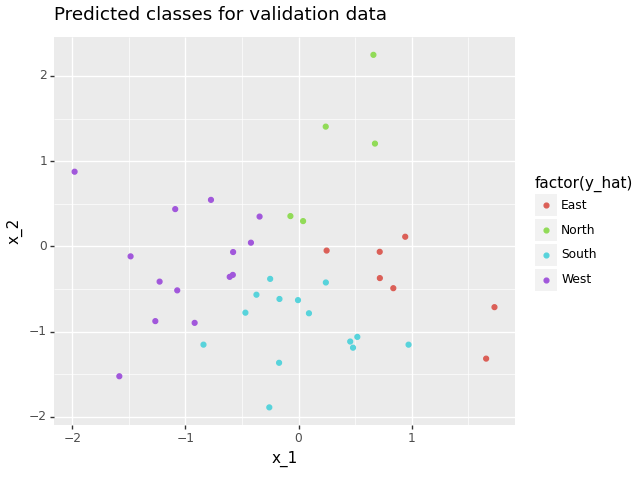
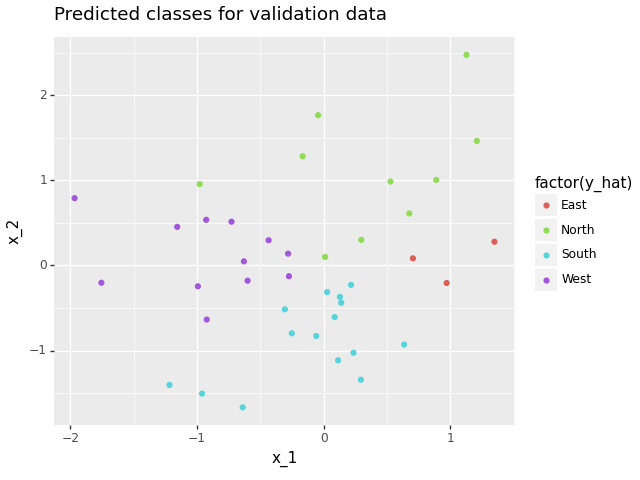
Updated the README.md

diff --git a/neural_network/components/network.py b/neural_network/components/network.py
@@ -21,9 +21,9 @@ class Network:
     """
 
     def __init__(self, num_features: int, num_hidden_layers: int,
-                 neuron_counts: List[int], regression: bool = False,
-                 leak: float = 0.01, learning_rate: float = 0.01,
-                 num_classes: int = 2, adaptive: bool = False,
+                 neuron_counts: List[int], num_classes: int = 2,
+                 regression: bool = False, leak: float = 0.01,
+                 learning_rate: float = 0.01, adaptive: bool = False,
                  gamma: float = 0.9, he_weights: bool = False):
         """Constructor method
 
@@ -35,6 +35,8 @@ class Network:
             The total number of hidden `Layers` in the `Network`
         neuron_counts : List[int]
             A list of numbers of `Neurons` for each hidden `Layer`
+        num_classes : int
+            The number of classes for the classification task
         regression : bool
             Whether we are performing regression or not (if `False` we are
             performing classification)
@@ -42,8 +44,6 @@ class Network:
             The leak rate of LeakyReLU
         learning_rate : float
             The learning rate of the network
-        num_classes : int
-            The number of classes for the classification task
         adaptive : bool
             Whether we wish to have an adaptive learning rate or not
         gamma : float

diff --git a/README.md b/README.md
@@ -12,7 +12,7 @@ Given a set of labelled datapoints, our goal is to use a neural network to learn
 ### Network
 This network is made up of an input layer (one neuron for each coordinate of the data), some hidden layers and an output layer.
 The output layer has either one neuron for regression problems, or the number of classes for classification. Below is an example network
-from `examples/classification/circle` produced using the `networkx` package.
+from `examples/classification/circle` produced using the `networkx` package, with 1 input layer, 3 hidden layers and 1 output layer.
 
 ![example network](images/network_circle.png)
 
@@ -44,8 +44,11 @@ There are a few different ways of creating an example. In this section, we demon
 
 Here, we use `examples/diagonals` as our example, which has data in the $x-y$ plane split into 4 classes for North, East, South and West.
 First, create a directory named `diagonals` in the `examples` folder (or in your own new folder if you prefer).
+
 ### Generating data
-To generate your own data, create the file `generate_diagonals_data.py`. From here, import one of the data generators, say
+Next, you can either use one of the helper classes to generate some data, or use your own. We demonstrate both ways below.
+
+To utilise the helper classes, first create the file `generate_diagonals_data.py`. From here, import one of the data generators, say
 `NormalDataGenerator`, which takes the following arguments:
 
 | argument         | type          | description                                                                                                                                                                   |
@@ -72,15 +75,113 @@ For our example, the `function` takes in `x_1` and `x_2` as arguments, and retur
                 return "West"
 ``
 
-Next, we feed this to the `NormalDataGenerator` with `400` datapoints and means of `[0.0, 0.0]`, std_devs of `[1.0, 1.0]` to get the following data:
+Next, we feed this to the `NormalDataGenerator` with `400` datapoints and means of `[0.0, 0.0]`, std_devs of `[1.0, 1.0]`. Use the `__call__` method of the generator,
+followed by `generator.plot_datapoints("diagonals")` to get the plot below:
 
-![true diagonals data](images/true_scatter.png)
+![true diagonals data](images/true_scatter_diagonals.png)
 
-This is from the dataframe returned by the `__call__` method of the data generator. We can then save this to a .csv file using `generator.write_to_csv("diagonals_data.csv")`.
+We can then save this data to a .csv file using `generator.write_to_csv("diagonals_data.csv")`.
 
-### Using 
+### Using externally generated data
+If you wish to instead use your own data not generated by one of the helper methods, simply put it in the following .csv format (titles unimportant):
 
-## Class Structure
+| `x_1` | ... | `x_n` | `y`       |
+|-------|-----|-------|-----------|
+| `0.1` | ... | `0.8` | `Class B` |
+| `0.4` | ... | `0.5` | `Class A` |
+| `0.6` | ... | `0.1` | `Class B` |
+| ...   | ... | ...   | ...       |
+
+In the above table, each row represents a single datapoint with `n` coordinates `x_1`, ..., `x_n`. `y` represents either the class or value of the datapoint.
+The `x_i` and `y` entries must be of the following types:
+
+| variable | problem                      | type                        |
+|----------|------------------------------|-----------------------------|
+| `x_i`    | classification or regression | `int` or `float`            |
+| `y`      | classification               | `int`, `float`, `str`, etc. |
+| `y`      | regression                   | `int` or `float`            |
+
+### Splitting data and constructing the network
+Once we have our data in a .csv file, we can begin learning. Within the `diagonals` directory, create a new file named `diagonals_main.py`.
+From here, import the `DataSplitter` which will randomly split our data into training, validation and testing according to some proportions.
+
+`` 
+
+    data_splitter = DataSplitter(path="diagonals_data.csv", proportions=[8, 1, 1]) 
+    training_data, validation_data, testing_data = data_splitter.split()
+
+``
+
+After this, we can instantiate our `network`, which accepts the following parameters to its constructor:
+
+| parameter           | type        | description                                                                                               | default  |
+|---------------------|-------------|-----------------------------------------------------------------------------------------------------------|----------|
+| `num_features`      | `int`       | The number of features (x coordinates) per datapoint.                                                     | ---      |
+| `num_hidden_layers` | `int`       | The number of hidden layers of the network.                                                               | ---      |
+| `neuron_counts`     | `List[int]` | The number of neurons in each hidden layer.                                                               | ---      |
+| `num_classes`       | `int`       | The number of classes in the data for a classification problem. This parameter is ignored for regression. | `2`      |
+| `regression`        | `bool`      | `True` corresponds to regression, `False` is classification.                                              | `False`  |
+| `leak`              | `float`     | The leak for the ReLU function. Choose `0` for no leak.                                                   | `0.01`   |
+| `learning_rate`     | `float`     | The learning rate for the network.                                                                        | `0.01`   |
+| `adaptive`          | `bool`      | Whether we wish to have an adaptive learning rate or not (using momentum).                                | `False`  |
+| `gamma`             | `float`     | The adaptive learning rate parameter. This is ignored if `adaptive` is `False`                            | `0.9`    |
+| `he_weights`        | `bool`      | Whether we wish to initialise the weights of the network according to He or not [^1]().                   | `False`  |
+
+Here is an example below, which we will use for the `diagonals` data:
+
+`` 
+    network = Network(num_features=2, num_hidden_layers=2, neuron_counts=[4, 4], 
+                      num_classes=4, adaptive=True, he_weights=True) 
+``
+
+Note that only the first 3 parameters are required.
+
+### Learning
+For the learning, we now create three separate learners: the `trainer`, `validator` and `tester`. They accept the following parameters to their constructors:
+
+| parameter    | type           | description                                           | default |
+|--------------|----------------|-------------------------------------------------------|---------|
+| `network`    | `Network`      | Our network from above.                               | ---     |
+| `data`       | `pd.DataFrame` | The data for the specific phase.                      | ---     |
+| `batch_size` | `int`          | The batch size we wish to use.                        | ---     |
+| `weighted`   | `bool`         | Whether we want weighted or unweighted batches.       | `False` |
+| `validator`  | `Validator`    | **TRAINER ONLY** - the already instantiated validator | `None`  |
+| `num_epochs` | `int`          | **TRAINER ONLY** - the number of epochs to train for. | ---     |
+
+Continuing with the `diagonals` example, these are our learners:
+
+``
+
+    validator = Validator(network, validation_data, batch_size=10)
+    trainer = Trainer(network, training_data, num_epochs=1000, batch_size=16, weighted=True, validator=validator)
+    tester = Tester(network, testing_data, batch_size=10)
+``
+
+Now, we can run the `trainer` and `tester`! Note that the `validator` is run by the `trainer`.
+
+``
+
+    trainer.run()
+    tester.run()
+``
+
+### Plotting the results
+There are various methods that can be used to analyse the results.
+
+Using `trainer.generate_loss_plot(title='diagonals')`, we can plot the loss of the training and validation over time.
+
+![loss plot diagonals](images/losses_diagonals.png)
+
+All three learners have a `generate_scatter` method which also accepts a title as an argument. This method shows the predicted classes for the data.
+
+![scatter diagonals](images/scatter_diagonals.png)
+
+The `tester` also has a `generate_confusion` method, which will print out the confusion matrix and dice scores for the data. This is only for classification problems,
+but for regression there are other plotting methods as well.
+
+![confusion diagonals](images/confusion_diagonals.png)
+
+## Class structure
 Below is the UML class diagram for this package, created using [VisualParadigm](https://online.visual-paradigm.com).
 
 ![class diagram](images/class_diagram.png)
